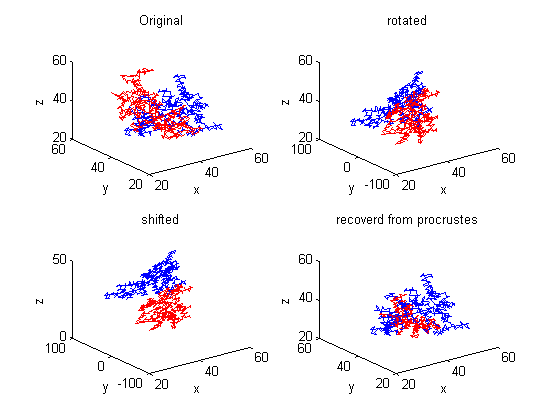
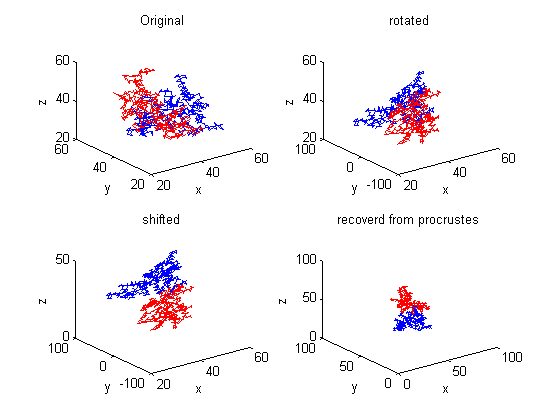
the scale should be 1

diff --git a/proteinReformulation.m b/proteinReformulation.m
@@ -4,14 +4,14 @@
 % coords(:,1) = sin(coords(:,3));
 % coords(:,2) = cos(coords(:,3));
 
-% load Protein;
-% points = Protein;
-% totalPoints=1000;
-% coords=points(1:totalPoints,:);
-load example1
-points=example1;
-totalPoints=500;
+load Protein;
+points = Protein;
+totalPoints=1000;
 coords=points(1:totalPoints,:);
+% load example1
+% points=example1;
+% totalPoints=500;
+% coords=points(1:totalPoints,:);
 
 
 pointsAlign=200;
@@ -67,7 +67,7 @@ c = transform.c;
 T = transform.T;
 b = transform.b;
 
-secondHalfRecover = b*secondHalf*T+repmat(c(1,:),size(secondHalf,1),1) ;
+secondHalfRecover = secondHalf*T+repmat(c(1,:),size(secondHalf,1),1) ;
     
 
 subplot(2,2,4);
